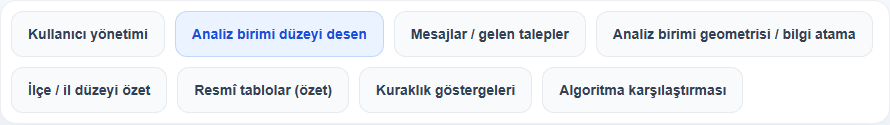
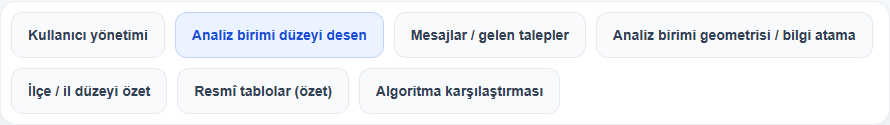
Fix V1 tab parity and golden popup evidence

diff --git a/kds/ui/static/v1-provider.js b/kds/ui/static/v1-provider.js
@@ -117,13 +117,8 @@
     const waterYear=byId('waterYear');if(waterYear){waterYear.replaceChildren(new Option(`${context.project.planning_year} · proje planlama yılı`,String(context.project.planning_year),true,true));waterYear.disabled=true;}
     applyProviderTerminology(true);
   }
-  function ensureProjectTabs(){
+  function bindProjectTabRefresh(){
     const tabs=byId('analysisTables');
-    if(tabs&&!tabs.querySelector('[data-tab="drought"]')){
-      const button=document.createElement('button');button.className='tab';button.dataset.tab='drought';button.textContent='Kuraklık göstergeleri';
-      tabs.querySelector('[data-tab="benchmark"]')?.insertAdjacentElement('beforebegin',button);
-      button.addEventListener('click',()=>{document.querySelectorAll('#analysisTables .tab').forEach(node=>node.classList.remove('active'));document.querySelectorAll('.tab-panels>.tab-panel').forEach(node=>node.classList.remove('active'));button.classList.add('active');byId('tab-drought')?.classList.add('active');});
-    }
     if(tabs&&!tabs.dataset.projectParityBound){
       tabs.dataset.projectParityBound='1';
       tabs.addEventListener('click',event=>{
@@ -136,7 +131,7 @@
     for(const id of ['btnExportWaterCsv','btnExportScenarioCsv','btnExportParcelsCsv','btnExportAllParcelCompareCsv']){const button=byId(id);if(button){button.disabled=true;button.title='PROJECT DATA dışa aktarımı bu stored-run sözleşmesinde sağlanmadı.';}}
   }
   function renderProjectModules(run=context?.run){
-    if(!context)return;ensureProjectTabs();
+    if(!context)return;bindProjectTabRefresh();
     const current=context.current_summary||{},geo=context.geographic_summary||{rows:[]},result=run?.result||{};
     setText('bWaterCurrent',metric(current.water_m3));setText('bProfitCurrent',metric(current.profit_tl));setText('bEffCurrent',metric(current.efficiency_tl_per_m3,4));
     const districtRows=(geo.rows||[]).map(row=>[row.name,row.unit_count,metric(row.area_da),metric(row.current_water_m3),metric(row.current_profit_tl)]);

diff --git a/tests/test_v1_native_project_interactivity_final.py b/tests/test_v1_native_project_interactivity_final.py
@@ -245,16 +245,18 @@ def test_full_native_project_workspace_clickability_and_e2e(tmp_path):
             page.locator("#basinSummaryBlock").screenshot(path=str(EVIDENCE / "project_summary_1366x900.png"))
             page.locator("#tab-parcel").screenshot(path=str(EVIDENCE / "project_current_recommended_1366x900.png"))
             page.locator("#waterRiskSection").screenshot(path=str(EVIDENCE / "project_drought_1366x900.png"))
-            page.locator("#analysisTables").screenshot(path=str(EVIDENCE / "project_tabs_1366x900.png"))
 
             expected_tabs = [
                 "users", "parcel", "institution-communication", "drawing",
-                "district", "official", "drought", "benchmark",
+                "district", "official", "benchmark",
             ]
-            assert page.evaluate("""expected => Array.from(
+            project_tabs = page.evaluate("""() => Array.from(
               document.querySelectorAll('#analysisTables .tab')
-            ).filter(node => node.offsetParent !== null).map(node => node.dataset.tab)
-            .filter(value => expected.includes(value))""", expected_tabs) == expected_tabs
+            ).filter(node => node.offsetParent !== null).map(node => node.dataset.tab)""")
+            assert project_tabs == expected_tabs
+            assert page.locator('.tab[data-tab="drought"]').count() == 0
+            expect(page.locator("#waterRiskSection")).to_be_visible()
+            expect(page.locator("#waterRiskSection")).to_contain_text("SAĞLANMADI / NOT PROVIDED")
             assert page.evaluate("""() => {
               const ids=['explainBox','rotationBox','irrigationCompareBox',
                 'businessMetricsBox','deliveryBox','irrigPlanBox'];
@@ -268,6 +270,8 @@ def test_full_native_project_workspace_clickability_and_e2e(tmp_path):
             _assert_hit_target(page, parcel_tab)
             parcel_tab.click()
             assert "active" in (parcel_tab.get_attribute("class") or "").split()
+            page.evaluate("document.getElementById('analysisTables').scrollLeft=0")
+            page.locator("#analysisTables").screenshot(path=str(EVIDENCE / "project_tabs_1366x900.png"))
             benchmark_tab = page.locator('.tab[data-tab="benchmark"]')
             _assert_hit_target(page, benchmark_tab)
             benchmark_tab.click()
@@ -276,7 +280,7 @@ def test_full_native_project_workspace_clickability_and_e2e(tmp_path):
             expect(page.locator("#benchmarkResults")).to_contain_text("max_profit")
             expect(page.locator("#benchmarkResults")).to_contain_text("water_efficiency")
             page.locator("#tab-benchmark").screenshot(path=str(EVIDENCE / "project_algorithm_comparison_1366x900.png"))
-            for tab_name in ("users", "drawing", "district", "official", "drought"):
+            for tab_name in ("users", "drawing", "district", "official"):
                 expect(page.locator(f'.tab[data-tab="{tab_name}"]')).to_be_visible()
             page.locator('.tab[data-tab="district"]').click()
             expect(page.locator("#districtSummaryTable")).to_contain_text("Test West")
@@ -285,9 +289,6 @@ def test_full_native_project_workspace_clickability_and_e2e(tmp_path):
             expect(page.locator("#officialWaterNote")).to_contain_text("PROJECT DATA")
             expect(page.locator("#officialSummary")).to_contain_text("PROJECT DATA")
             page.locator("#tab-official").screenshot(path=str(EVIDENCE / "project_official_1366x900.png"))
-            page.locator('.tab[data-tab="drought"]').click()
-            expect(page.locator("#tab-drought")).to_be_visible()
-            expect(page.locator("#waterRiskSection")).to_contain_text("SAĞLANMADI / NOT PROVIDED")
             page.locator('.tab[data-tab="benchmark"]').click()
             accordion = page.locator("#parcelGroup > summary")
             _assert_hit_target(page, accordion)
@@ -375,17 +376,27 @@ def test_full_native_project_workspace_clickability_and_e2e(tmp_path):
             page.screenshot(path=str(EVIDENCE / "akkaya_reference_restored.png"), full_page=True)
             reference_page_height = page.evaluate("document.documentElement.scrollHeight")
             assert abs(project_page_height - reference_page_height) < 600
+            page.wait_for_load_state("networkidle", timeout=120000)
             page.locator("#map").screenshot(path=str(EVIDENCE / "reference_map_1366x900.png"))
+            page.locator("#parcelSelect").select_option("P1")
+            page.wait_for_timeout(500)
             reference_polygon = page.locator(".leaflet-interactive").first
             expect(reference_polygon).to_be_visible(timeout=30000)
-            reference_polygon.click(force=True)
-            reference_popup = page.locator(".leaflet-popup").last
+            reference_popup = page.locator(".leaflet-popup-content").last
             expect(reference_popup).to_be_visible(timeout=30000)
-            reference_popup.screenshot(path=str(EVIDENCE / "reference_map_unit.png"))
+            selected_reference_id = page.locator("#parcelSelect").input_value()
+            expect(reference_popup).to_contain_text(selected_reference_id)
+            page.locator("#map").screenshot(path=str(EVIDENCE / "reference_map_unit.png"))
             page.locator("#parcelSummaryBlock").screenshot(path=str(EVIDENCE / "reference_summary_1366x900.png"))
             page.locator("#waterRiskSection").screenshot(path=str(EVIDENCE / "reference_drought_1366x900.png"))
-            page.locator("#analysisTables").screenshot(path=str(EVIDENCE / "reference_tabs_1366x900.png"))
             page.locator('.tab[data-tab="parcel"]').click()
+            reference_tabs = page.evaluate("""() => Array.from(
+              document.querySelectorAll('#analysisTables .tab')
+            ).filter(node => node.offsetParent !== null).map(node => node.dataset.tab)""")
+            assert reference_tabs == expected_tabs == project_tabs
+            assert page.locator('.tab[data-tab="drought"]').count() == 0
+            page.evaluate("document.getElementById('analysisTables').scrollLeft=0")
+            page.locator("#analysisTables").screenshot(path=str(EVIDENCE / "reference_tabs_1366x900.png"))
             page.locator("#tab-parcel").screenshot(path=str(EVIDENCE / "reference_current_recommended_1366x900.png"))
             page.locator("#deliveryBox").screenshot(path=str(EVIDENCE / "reference_monthly_water_context_1366x900.png"))
             page.locator('.tab[data-tab="district"]').click()

diff --git a/tests/test_unified_decision_demo_fix1_browser.py b/tests/test_unified_decision_demo_fix1_browser.py
@@ -15,12 +15,14 @@ BASELINE = "a6d36d099544776d0610b3c868a3675b12da5b0e"
 
 
 @pytest.mark.browser
-def test_v1_reference_boundary_is_visible_without_mutating_frozen_index():
+def test_v1_reference_boundary_is_visible_without_mutating_frozen_index(tmp_path, monkeypatch):
     baseline_object = subprocess.check_output(
         ["git", "rev-parse", f"{BASELINE}:index.html"], text=True).strip()
     current_object = subprocess.check_output(["git", "hash-object", "index.html"], text=True).strip()
     assert current_object == baseline_object
 
+    monkeypatch.setenv("KDS_PROJECT_STORE", str(tmp_path / "projects"))
+    monkeypatch.setenv("KDS_DEPLOYMENT_MODE", "local-development")
     import app as thesis
     server, thread = serve(thesis.app)
     try:
@@ -56,8 +58,11 @@ def test_v1_reference_boundary_is_visible_without_mutating_frozen_index():
 
 
 @pytest.mark.browser
-def test_decision_back_link_restores_exact_project_and_decision_identity(tmp_path):
+def test_native_v1_exact_project_run_and_workspace_return(tmp_path):
     application, client, _ = client_for(tmp_path)
+    project_name = project_payload()["name"]
+    from test_unified_v1_project_provider_browser import LEAFLET, _serve_v1
+    _serve_v1(application)
     assert client.post("/api/v2/projects", json=project_payload()).status_code == 201
     items = bulk_upload(client)
     confirm_bulk(client, items)
@@ -66,26 +71,26 @@ def test_decision_back_link_restores_exact_project_and_decision_identity(tmp_pat
     run_payload = {**payload, **{key: preview[key]
                                 for key in ("preview_token", "preview_revision", "selection_hash")}}
     run = client.post("/api/v2/projects/unified-demo/analyses", json=run_payload).json
-
     server, thread = serve(application)
     try:
         with sync_playwright() as playwright:
             browser = playwright.chromium.launch(headless=True)
             page = browser.new_page(viewport={"width": 1366, "height": 900})
+            page.add_init_script(LEAFLET)
             page.route("https://**", lambda route: route.abort())
-            decision = (f"http://127.0.0.1:{server.server_port}/projects/decision"
-                        f"?project_id=unified-demo&run_id={run['id']}"
-                        "&execution_profile=VERIFIED_INSTITUTIONAL")
+            decision = (f"http://127.0.0.1:{server.server_port}/"
+                        f"?provider=PROJECT_DATA&project_id=unified-demo&run_id={run['id']}")
             page.goto(decision)
-            expect(page.locator("#decision-title")).to_have_text("SYNTHETIC_INSTITUTIONAL_TEST_PROJECT")
-            expect(page.locator("#decision-authority")).to_be_visible()
-            assert "AKKAYA" not in page.locator("#result-facts").inner_text()
-            page.locator("#back-to-project").click()
-            page.wait_for_url("**/projects#project=unified-demo&section=result")
-            expect(page.locator('#projects .project-card[aria-label="SYNTHETIC_INSTITUTIONAL_TEST_PROJECT"]')).to_have_class(
+            page.wait_for_function("window.__V1_PROJECT_PROVIDER__?.context?.run?.id")
+            expect(page.locator("#metricsTitle")).to_contain_text(project_name)
+            expect(page.locator("#v1-provider-authority")).to_have_text("SYNTHETIC / NOT_OFFICIAL")
+            expect(page.locator("#buildMetaBox")).to_contain_text(run["id"])
+            assert page.evaluate("document.querySelector('#v1-native-project-results') === null")
+            page.goto(f"http://127.0.0.1:{server.server_port}/projects#project=unified-demo&section=result")
+            expect(page.locator(f'#projects .project-card[aria-label="{project_name}"]')).to_have_class(
                 "project-card active")
             expect(page.locator("#detail")).to_be_visible()
-            expect(page.locator("#project-name")).to_have_text("SYNTHETIC_INSTITUTIONAL_TEST_PROJECT")
+            expect(page.locator("#project-name")).to_have_text(project_name)
             expect(page.locator("#hero-project-meta")).to_contain_text("2025")
             expect(page.locator("#synthetic-watermark")).to_be_visible()
             page.locator("#history button", has_text=run["id"]).click()
@@ -94,7 +99,9 @@ def test_decision_back_link_restores_exact_project_and_decision_identity(tmp_pat
             assert f"run_id={run['id']}" in reopen.get_attribute("href")
             reopen.click()
             page.wait_for_url(f"**run_id={run['id']}**")
-            expect(page.locator("#decision-title")).to_have_text("SYNTHETIC_INSTITUTIONAL_TEST_PROJECT")
+            page.wait_for_function("window.__V1_PROJECT_PROVIDER__?.context?.run?.id")
+            expect(page.locator("#metricsTitle")).to_contain_text(project_name)
+            expect(page.locator("#buildMetaBox")).to_contain_text(run["id"])
             browser.close()
     finally:
         server.shutdown(); thread.join(timeout=5)

diff --git a/tests/test_unified_decision_demo_browser.py b/tests/test_unified_decision_demo_browser.py
@@ -34,7 +34,9 @@ def serve(application):
 
 
 @pytest.mark.browser
-def test_akkaya_reference_thesis_screen_remains_operational_in_chromium():
+def test_akkaya_reference_thesis_screen_remains_operational_in_chromium(tmp_path, monkeypatch):
+    monkeypatch.setenv("KDS_PROJECT_STORE", str(tmp_path / "projects"))
+    monkeypatch.setenv("KDS_DEPLOYMENT_MODE", "local-development")
     import app as thesis
     server, thread = serve(thesis.app)
     try:
@@ -87,12 +89,14 @@ def test_fresh_bulk_import_run_and_decision_bridge_in_chromium(tmp_path):
     application = Flask("unified-demo-browser")
     application.config["TESTING"] = True
     register_project_api(application, repository)
+    from test_unified_v1_project_provider_browser import LEAFLET, _serve_v1
+    _serve_v1(application)
     server, thread = serve(application)
     try:
         with sync_playwright() as playwright:
             browser = playwright.chromium.launch(headless=True)
             page = browser.new_page(viewport={"width": 1366, "height": 900})
-            page.add_init_script(LEAFLET_STUB)
+            page.add_init_script(LEAFLET)
             page.route("https://**", lambda route: route.abort())
             errors = []
             requested = []
@@ -163,18 +167,18 @@ def test_fresh_bulk_import_run_and_decision_bridge_in_chromium(tmp_path):
             assert stored["result_authority_label"] == "SYNTHETIC / NOT_OFFICIAL"
             assert stored["result"]["classification"] == "SYNTHETIC_TEST_OUTPUT"
             page.locator("#open-decision-screen").click()
-            page.wait_for_url("**/projects/decision?**")
+            page.wait_for_url("**/?provider=PROJECT_DATA**")
             assert "project_id=browser-unified-demo" in page.url
             assert f"run_id={run_id}" in page.url
-            expect(page.locator(".mode-badge.verified")).to_have_text("VERIFIED INSTITUTIONAL")
-            expect(page.locator("#decision-authority")).to_be_visible()
-            expect(page.locator("#decision-title")).to_have_text("Bakanlık Sentetik Demo Projesi")
-            expect(page.locator("#result-source-label")).to_contain_text("SYNTHETIC / NOT OFFICIAL")
-            expect(page.locator("#provenance-summary")).to_contain_text("Selection hash")
-            expect(page.locator("#provenance-summary")).to_contain_text("Engine commit")
-            expect(page.locator("#unit-list button")).to_have_count(24)
-            expect(page.locator(".leaflet-marker-icon")).to_have_count(2)
-            assert "AKKAYA" not in page.locator("#result-facts").inner_text()
+            page.wait_for_function("window.__V1_PROJECT_PROVIDER__?.context?.run?.id")
+            page.evaluate(
+                "setAuthenticatedUser(getAuthUserByUsername('kurum.nigde'), {focus:false})"
+            )
+            expect(page.locator("#roleInfoBanner")).to_contain_text("24 analiz birimi")
+            expect(page.locator("#v1-provider-authority")).to_have_text("SYNTHETIC / NOT_OFFICIAL")
+            expect(page.locator("#buildMetaBox")).to_contain_text(run_id)
+            expect(page.locator("#parcelSelect option")).to_have_count(24)
+            assert page.evaluate("document.querySelector('#v1-native-project-results') === null")
             assert not any("/api/parcels" in url or "/api/optimize" in url for url in requested)
             assert not errors
             browser.close()

diff --git a/docs/project_v1_exact_ui_cleanboot_final/01_visual_parity_matrix.md b/docs/project_v1_exact_ui_cleanboot_final/01_visual_parity_matrix.md
@@ -1,6 +1,6 @@
 # PROJECT_DATA / AKKAYA_REFERENCE visual parity matrix
 
-Corrective baseline: `629f1f46ca14f674fcac7c9971acbbefc525d5b0`
+Corrective baseline: `edf0ca0dde63401ab926cb639e804b8f89a84b52`
 
 The comparison uses the same V1 document, controls, cards, tabs, charts and map grammar for both providers. Provider-specific values remain authoritative to their own source.
 
@@ -15,7 +15,7 @@ The comparison uses the same V1 document, controls, cards, tabs, charts and map 
 | Result scrolling | Normal page flow | Normal page flow; only wide tables scroll horizontally | BUG_FIXED | PASS |
 | Metric readability | Native V1 | Values wrap safely; table cells do not split words | BUG_FIXED | PASS |
 | Map proportions | Native V1 map | 520 px desktop, 460 px compact desktop, 420 px mobile | BUG_FIXED | PASS |
-| Tabs | Shared V1 tab set | Same shared V1 tab set with provider-correct terminology | BUG_FIXED | PASS |
+| Tabs | Seven shared V1 tabs | The same seven tabs, in the same order, with provider-correct terminology | BUG_FIXED | PASS |
 | Drought | Accepted 2000-2025 reference series | `SAĞLANMADI / NOT PROVIDED` | EXPECTED_PROVIDER_DIFFERENCE | PASS |
 | District/official tables | Reference aggregates | Backend project aggregates and explicit project authority | EXPECTED_PROVIDER_DIFFERENCE | PASS |
 | Current pattern | Reference current state | Backend-authoritative project current state | EXPECTED_PROVIDER_DIFFERENCE | PASS |
@@ -26,5 +26,15 @@ The comparison uses the same V1 document, controls, cards, tabs, charts and map 
 Responsive checks passed at 1280x720, 1366x768, 1366x900, 1536x864, 1920x1080 and 390x844. Zoom checks passed at 80%, 100% and 125%. The document had no page-level horizontal overflow, the project map stayed within its provider-specific V1-compatible bounds, and result cards had no clipped values. The paired 1366x900 full-page captures use the same active native parcel/analysis-unit tab. PROJECT_DATA measured 4385 px high and AKKAYA_REFERENCE measured 4100 px; the remaining 285 px reflects project authority/provenance text and provider-specific content rather than a second result hierarchy.
 
 `PARALLEL_RESULT_WORKSPACE = ABSENT`
+
+`REFERENCE_TAB_COUNT = 7`
+
+`PROJECT_TAB_COUNT = 7`
+
+`TAB_HIERARCHY_PARITY = PASS`
+
+`PROJECT_DROUGHT_NAV_TAB = ABSENT`
+
+The drought content remains in the shared page flow. PROJECT_DATA renders the explicit `SAĞLANMADI / NOT PROVIDED` state while AKKAYA_REFERENCE renders its accepted 2000–2025 series.
 
 `UNEXPLAINED_VISUAL_BUGS = 0`

diff --git a/docs/project_v1_exact_ui_cleanboot_final/05_tab_and_golden_corrective_validation.md b/docs/project_v1_exact_ui_cleanboot_final/05_tab_and_golden_corrective_validation.md
@@ -1,0 +1,33 @@
+# Final tab and golden-evidence corrective validation
+
+Baseline: `edf0ca0dde63401ab926cb639e804b8f89a84b52`
+
+## Product correction
+
+`kds/ui/static/v1-provider.js` no longer injects a PROJECT_DATA-only drought tab. It only refreshes project-backed native tab content after an existing shared V1 tab is selected. Both providers therefore expose the same seven native tabs in the same normalized order. The shared drought content card was not removed.
+
+The removed parallel result architecture remains absent: `#v1-native-project-results`, `ensureNativeResultSurface`, and `.v1-native-results` are not active runtime constructs.
+
+## Test maintenance
+
+- The unified demo browser journey now follows the accepted native root URL with exact `provider`, `project_id`, and `run_id` state instead of the obsolete `/projects/decision` surface.
+- The native result title assertion uses the real project name; classification remains authority metadata rather than a fabricated title.
+- Reference-boundary browser tests use an isolated temporary project store so stale external or junction state cannot affect fail-closed behavior.
+- Reference popup evidence waits for reference loading to become idle, selects P1 through the native selector/focus path, asserts the visible popup contains P1, and captures the map itself.
+
+## Verified gates
+
+- 21/21 files: `AUTO_MATCHED`; revision 21.
+- 24 analysis units, 24 geometries, 24/24 candidate coverage, 8 crops.
+- PROJECT_DATA → AKKAYA_REFERENCE → PROJECT_DATA: 24 → 179 → 24.
+- PROJECT_DATA visible tabs: 7; AKKAYA_REFERENCE visible tabs: 7; normalized order equal.
+- PROJECT_DATA drought navigation tab: absent; drought content: visible, `SAĞLANMADI / NOT PROVIDED`.
+- Clean PROJECT_DATA boot makes no `/api/parcels` or `/api/optimize` request and produces no reference initialization error.
+- Responsive viewports 1280×720, 1366×768, 1366×900, 1536×864, 1920×1080, and 390×844 pass without page-level horizontal overflow; 80%, 100%, and 125% zoom checks pass.
+- Protected scientific, data, reference, deployment, and frozen V1 objects are unchanged from the corrective baseline.
+
+`REFERENCE_PROVENANCE_PARSE_ISSUE = INHERITED`
+
+`PROTECTED_DIFF = NONE`
+
+`UNEXPLAINED_VISUAL_BUGS = 0`

diff --git a/docs/project_v1_exact_ui_cleanboot_final/03_visual_evidence.md b/docs/project_v1_exact_ui_cleanboot_final/03_visual_evidence.md
@@ -23,7 +23,7 @@ All images were generated by the focused real-Chromium flow at the accepted 21-f
 ## AKKAYA_REFERENCE
 
 - `evidence/akkaya_reference_restored.png` — complete reference workspace after provider round trip
-- `evidence/reference_map_1366x900.png` and `evidence/reference_map_unit.png` — accepted 179-parcel reference map and popup
+- `evidence/reference_map_1366x900.png` and `evidence/reference_map_unit.png` — accepted 179-parcel reference map and the actual visible P1 Leaflet popup; the selector, popup identity and screenshot target are asserted together after reference loading is idle
 - `evidence/reference_summary_1366x900.png` — reference summary
 - `evidence/reference_current_recommended_1366x900.png` — reference current/recommended surface
 - `evidence/reference_drought_1366x900.png` — accepted drought series
@@ -56,3 +56,11 @@ Both full-workspace captures use the native parcel/analysis-unit tab at 1366×90
 | Provenance | IDENTICAL_STRUCTURE | Project revision/run/selection hash versus reference source metadata |
 
 All listed content differences are `EXPECTED_PROVIDER_DIFFERENCE`; no alternate card hierarchy, duplicate result workspace, missing native tab, or provider-specific dashboard is present.
+
+## Corrective evidence notes
+
+The normalized visible tab keys for both providers are exactly `users, parcel, institution-communication, drawing, district, official, benchmark`. The earlier PROJECT_DATA-only drought navigation injection was removed; the drought card itself remains visible in the shared document flow.
+
+The earlier `reference_map_unit.png` captured the analysis panel instead of the map popup. The replacement is an 856×561 map capture with the P1 popup visible and its identity asserted against the native parcel selection.
+
+The reference provenance surface still reproduces `Unexpected token 'm', "missing" is not valid JSON`. Direct comparison with the accepted baseline shows that this behavior predates the corrective runtime change, which only removes the provider-only tab injection. It is classified as `INHERITED_REFERENCE_ISSUE`; no protected reference or scientific behavior was changed to conceal it.
